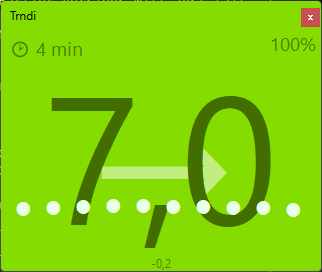
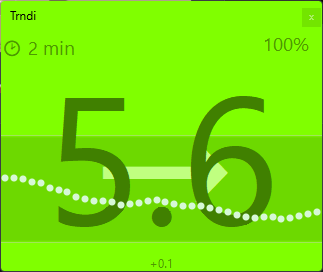
Swap images

diff --git a/index.html b/index.html
@@ -85,11 +85,11 @@
                     <h3>Windows 11</h3>
                 </div>
                 <div class="screenshot-item reveal">
-                    <img src="doc/img/img_lin.png" alt="Trndi on Fedora Linux" loading="lazy">
-                    <h3>Fedora Linux</h3>
+                    <img src="doc/img/img_macos.png" alt="Trndi on macOS" loading="lazy">
+                    <h3>macOS</h3>
                 </div>
                 <div class="screenshot-item reveal">
-                    <img src="doc/img/img_rpi.png" alt="Trndi on Raspberry Pi with touchscreen" loading="lazy">
+                    <img src="doc/img/img_rpi.jpg" alt="Trndi on Raspberry Pi with touchscreen" loading="lazy">
                     <h3>Raspberry Pi</h3>
                 </div>
             </div>